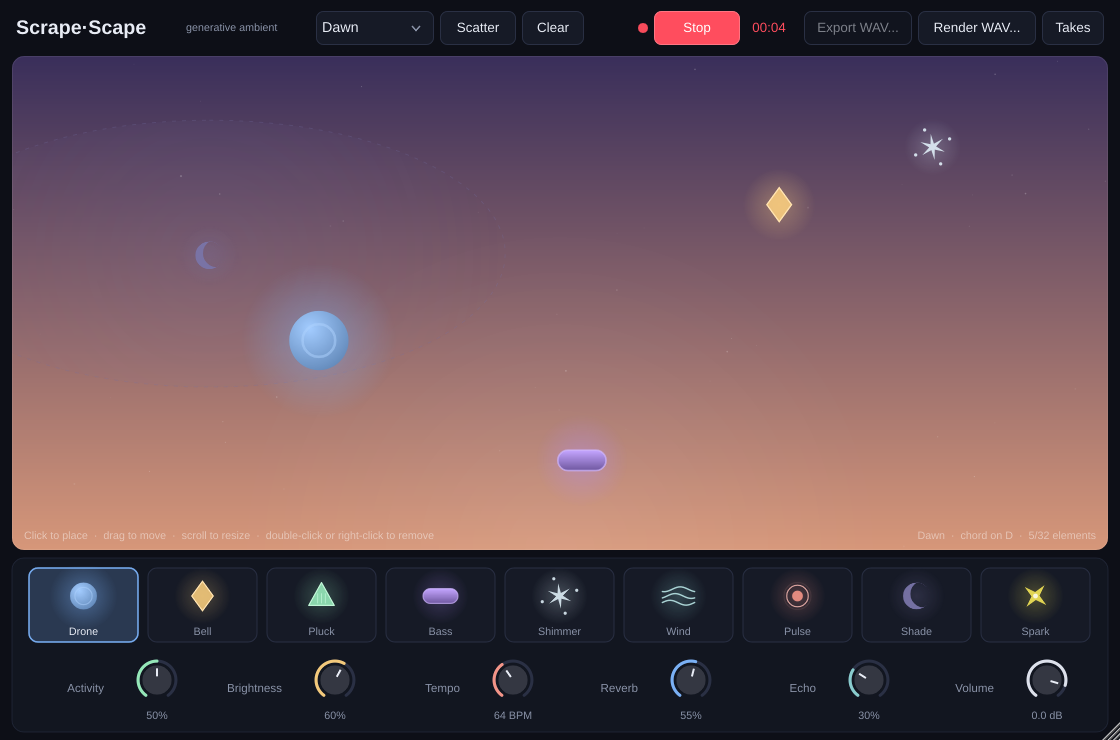
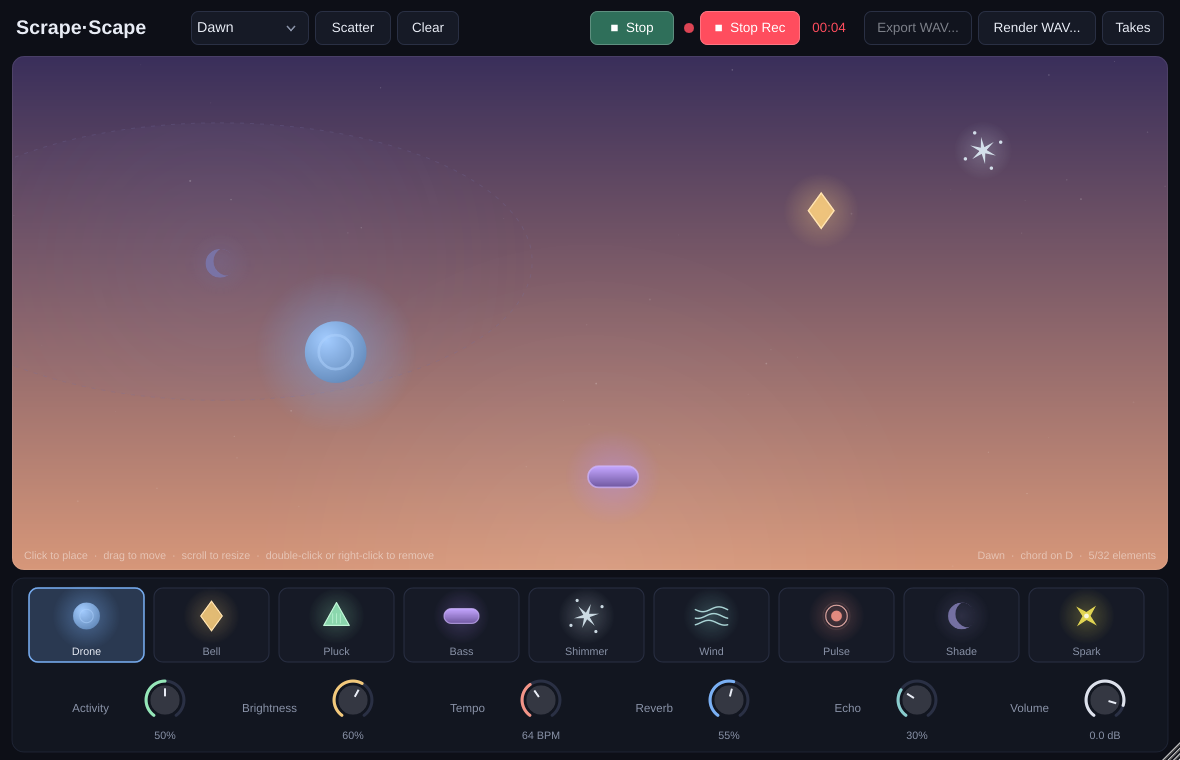
Add Play/Stop transport button
Stop fades the music out over ~1.5 s, then pauses the engine (no CPU use,
clock frozen); Play fades back in from where it left off. The canvas dims
while stopped, and the record button now reads "Record" / "Stop Rec" so the
two buttons can't be confused. Smoke test covers stop-to-silence and resume.

Claude-Session: https://claude.ai/code/session_01KxdiyvhzBx3aizHm2GyzJY

diff --git a/Source/PluginEditor.cpp b/Source/PluginEditor.cpp
@@ -40,6 +40,7 @@ ScrapeScapeEditor::ScrapeScapeEditor (ScrapeScapeProcessor& p)
     canvas.getSelectedType = [this] { return selectedType; };
     canvas.getMoodIndex = [this] { return processor.getEngineParams().mood; };
     canvas.getChordRoot = [this] { return processor.getChordRoot(); };
+    canvas.isPlaying = [this] { return processor.isPlaying(); };
     addAndMakeVisible (canvas);
 
     for (int t = 0; t < kNumElementTypes; ++t)
@@ -61,6 +62,14 @@ ScrapeScapeEditor::ScrapeScapeEditor (ScrapeScapeProcessor& p)
     clearButton.setTooltip ("Remove every element");
     clearButton.onClick = [this] { processor.getElements().clear(); };
 
+    playButton.setTooltip ("Start or stop the music (Stop fades out gently)");
+    playButton.setColour (TextButton::buttonOnColourId, Colour (0xff2f6f5a));
+    playButton.onClick = [this]
+    {
+        processor.setPlaying (! processor.isPlaying());
+        updateTransport();
+    };
+
     recordButton.setClickingTogglesState (false);
     recordButton.setTooltip ("Record the live output to a 24-bit WAV file");
     recordButton.onClick = [this] { toggleRecording(); };
@@ -79,7 +88,7 @@ ScrapeScapeEditor::ScrapeScapeEditor (ScrapeScapeProcessor& p)
     timeLabel.setColour (Label::textColourId, ScapeColours::textDim);
     timeLabel.setText ("00:00", dontSendNotification);
 
-    for (auto* c : std::initializer_list<Component*> { &scatterButton, &clearButton, &recordButton, &exportButton,
+    for (auto* c : std::initializer_list<Component*> { &playButton, &scatterButton, &clearButton, &recordButton, &exportButton,
                                                        &renderButton, &takesButton, &timeLabel })
         addAndMakeVisible (c);
 
@@ -94,8 +103,8 @@ ScrapeScapeEditor::ScrapeScapeEditor (ScrapeScapeProcessor& p)
     setLookAndFeel (&lookAndFeel);
 
     setResizable (true, true);
-    setResizeLimits (960, 640, 2400, 1600);
-    setSize (1120, 740);
+    setResizeLimits (1080, 640, 2400, 1600);
+    setSize (1180, 760);
 
     updateTransport();
     lastTimerSeconds = Time::getMillisecondCounterHiRes() * 0.001;
@@ -173,8 +182,10 @@ void ScrapeScapeEditor::resized()
     exportButton.setBounds (header.removeFromRight (108));
     header.removeFromRight (6);
     timeLabel.setBounds (header.removeFromRight (58));
-    recordButton.setBounds (header.removeFromRight (86));
-    header.removeFromRight (24);
+    recordButton.setBounds (header.removeFromRight (100));
+    header.removeFromRight (26);
+    playButton.setBounds (header.removeFromRight (84));
+    header.removeFromRight (20);
 
     moodBox.setBounds (header.removeFromLeft (118));
     header.removeFromLeft (6);
@@ -245,9 +256,13 @@ void ScrapeScapeEditor::timerCallback()
 
 void ScrapeScapeEditor::updateTransport()
 {
+    const bool playing = processor.isPlaying();
+    playButton.setToggleState (playing, dontSendNotification);
+    playButton.setButtonText (String::fromUTF8 (playing ? "\xe2\x96\xa0  Stop" : "\xe2\x96\xb6  Play"));
+
     const bool recording = processor.isRecording();
     recordButton.setToggleState (recording, dontSendNotification);
-    recordButton.setButtonText (recording ? "Stop" : "Record");
+    recordButton.setButtonText (String::fromUTF8 (recording ? "\xe2\x96\xa0  Stop Rec" : "\xe2\x97\x8f  Record"));
 
     const double secs = recording ? processor.getSecondsRecorded() : 0.0;
     if (recording)

diff --git a/Source/PluginProcessor.cpp b/Source/PluginProcessor.cpp
@@ -140,6 +140,16 @@ void ScrapeScapeProcessor::processBlock (juce::AudioBuffer<float>& buffer, juce:
     if (buffer.getNumChannels() == 0 || n == 0)
         return;
 
+    // Transport: once fully faded out, the engine is paused (no CPU, no clock advance).
+    const bool play = playing.load();
+    if (! play && transportGain <= 0.0f)
+    {
+        engineIdle = true;
+        recorder.write (buffer); // keep a running take continuous (silence)
+        return;
+    }
+    engineIdle = false;
+
     engine.setParams (getEngineParams());
 
     if (buffer.getNumChannels() >= 2)
@@ -157,6 +167,20 @@ void ScrapeScapeProcessor::processBlock (juce::AudioBuffer<float>& buffer, juce:
             engine.process (monoScratch.data(), monoScratch.data() + chunk, len, elements);
             for (int i = 0; i < len; ++i)
                 mono[pos + i] = 0.5f * (monoScratch[(size_t) i] + monoScratch[(size_t) (chunk + i)]);
+        }
+    }
+
+    // Fade in over ~1 s on Play, out over ~1.5 s on Stop.
+    const float sr = (float) getCurrentSampleRate();
+    const float step = play ? 1.0f / sr : -1.0f / (1.5f * sr);
+    if (play ? transportGain < 1.0f : true)
+    {
+        for (int i = 0; i < n; ++i)
+        {
+            transportGain = juce::jlimit (0.0f, 1.0f, transportGain + step);
+            const float g = transportGain * transportGain; // smoother perceived fade
+            for (int ch = 0; ch < buffer.getNumChannels(); ++ch)
+                buffer.getWritePointer (ch)[i] *= g;
         }
     }
 

diff --git a/Source/UI/SceneCanvas.cpp b/Source/UI/SceneCanvas.cpp
@@ -185,6 +185,9 @@ void SceneCanvas::advanceAnimation (float seconds)
         if (m.y < -0.02f) { m.y = 1.02f; }
     }
 
+    const bool stopped = isPlaying && ! isPlaying();
+    stoppedDim = jlimit (0.0f, 1.0f, stoppedDim + (stopped ? seconds / 1.5f : -seconds / 0.8f));
+
     // Ease the background towards the current mood's colours.
     const auto& mood = getMood (getMoodIndex ? getMoodIndex() : 0);
     const float k = jmin (1.0f, seconds * 1.5f);
@@ -309,6 +312,16 @@ void SceneCanvas::paint (Graphics& g)
         g.drawText (String (mood.name) + dot + "chord on " + names[note % 12] + dot
                         + String (bank.countActive()) + "/" + String (kMaxElements) + " elements",
                     footer, Justification::bottomRight);
+    }
+
+    if (stoppedDim > 0.0f)
+    {
+        g.setColour (Colours::black.withAlpha (0.35f * stoppedDim));
+        g.fillRoundedRectangle (getLocalBounds().toFloat(), 12.0f);
+        g.setColour (Colours::white.withAlpha (0.7f * stoppedDim));
+        g.setFont (FontOptions (16.0f));
+        g.drawText (String::fromUTF8 ("Stopped  \xe2\x80\x94  press Play to start the music"), getLocalBounds().removeFromTop (getHeight() / 2 + 40)
+                        .removeFromBottom (40), Justification::centred);
     }
 
     if (flashTime > 0.0f)

diff --git a/Tests/SmokeTest.cpp b/Tests/SmokeTest.cpp
@@ -94,6 +94,22 @@ int main (int argc, char** argv)
         check (energy / (4.0 * sr / block) > 0.005, "audio continues after prepareToPlay is called again");
     }
 
+    // ---- Play / Stop transport ---------------------------------------------------
+    {
+        auto blockRms = [&] { proc->processBlock (buffer, midi); return buffer.getRMSLevel (0, 0, block); };
+        proc->setPlaying (false);
+        for (int i = 0; i < (int) (2.0 * sr / block); ++i) blockRms();   // fade out (1.5 s)
+        float stoppedLevel = 0.0f;
+        for (int i = 0; i < 20; ++i) stoppedLevel = juce::jmax (stoppedLevel, blockRms());
+        check (stoppedLevel == 0.0f && proc->isSilent(), "Stop fades out to silence and pauses the engine");
+
+        proc->setPlaying (true);
+        double energy = 0.0;
+        const int blocks = (int) (3.0 * sr / block);
+        for (int i = 0; i < blocks; ++i) energy += blockRms();
+        check (! proc->isSilent() && energy / blocks > 0.005, "Play resumes the music");
+    }
+
     // ---- State round trip --------------------------------------------------
     proc->getElements().clear();
     proc->getElements().add (scape::ElementType::Pluck, 0.25f, 0.75f, 1.5f);

diff --git a/Source/PluginProcessor.h b/Source/PluginProcessor.h
@@ -43,6 +43,11 @@ public:
     scape::EngineParams getEngineParams() const noexcept;
     int getChordRoot() const noexcept { return engine.getChordRoot(); }
 
+    // Transport: Stop fades the music out and pauses the engine; Play fades it back in.
+    void setPlaying (bool shouldPlay) noexcept { playing.store (shouldPlay); }
+    bool isPlaying() const noexcept { return playing.load(); }
+    bool isSilent() const noexcept { return engineIdle.load(); }
+
     // Recording (live output -> WAV)
     bool startRecording();
     void stopRecording();
@@ -66,6 +71,8 @@ private:
     Recorder recorder;
     OfflineRenderer renderer;
     double currentSampleRate = 0.0;
+    std::atomic<bool> playing { true }, engineIdle { false };
+    float transportGain = 1.0f;   // audio thread only
     std::vector<float> monoScratch = std::vector<float> (2 * 1024, 0.0f);
 
     std::atomic<float>* moodParam = nullptr;

diff --git a/Source/PluginEditor.h b/Source/PluginEditor.h
@@ -33,7 +33,7 @@ private:
         std::unique_ptr<juce::AudioProcessorValueTreeState::SliderAttachment> attachment;
     };
 
-    bool showSubtitle() const noexcept { return getWidth() >= 1100; }
+    bool showSubtitle() const noexcept { return getWidth() >= 1240; }
     void timerCallback() override;
     void toggleRecording();
     void exportLastTake();
@@ -54,6 +54,7 @@ private:
     std::unique_ptr<juce::AudioProcessorValueTreeState::ComboBoxAttachment> moodAttachment;
 
     juce::TextButton scatterButton { "Scatter" }, clearButton { "Clear" };
+    juce::TextButton playButton;
     juce::TextButton recordButton { "Record" }, exportButton { "Export WAV..." };
     juce::TextButton renderButton { "Render WAV..." }, takesButton { "Takes" };
     juce::Label timeLabel;

diff --git a/Source/UI/SceneCanvas.h b/Source/UI/SceneCanvas.h
@@ -21,6 +21,7 @@ public:
     std::function<int()> getSelectedType;     // element type to place on click
     std::function<int()> getMoodIndex;
     std::function<int()> getChordRoot;
+    std::function<bool()> isPlaying;
 
     void advanceAnimation (float seconds);
 
@@ -47,6 +48,7 @@ private:
     juce::Colour topColour, bottomColour;
     juce::String flashMessage;
     float flashTime = 0.0f;
+    float stoppedDim = 0.0f;   // 0 = playing, 1 = fully stopped (visual)
 
     struct Mote { float x, y, speed, phase, size; };
     std::vector<Mote> motes;

diff --git a/README.md b/README.md
@@ -48,6 +48,7 @@ The first build downloads JUCE 8 automatically, so it takes a few minutes. The o
 
 | Action | How |
 |---|---|
+| Start / stop the music | **▶ Play / ■ Stop**. Stop fades out gently and pauses; Play picks up where it left off |
 | Place an element | Choose it in the palette, then click the canvas |
 | Move | Drag it. Height sets the register (higher = higher pitch), left/right sets the stereo position |
 | Resize (louder/softer, wider influence) | Scroll over it |
